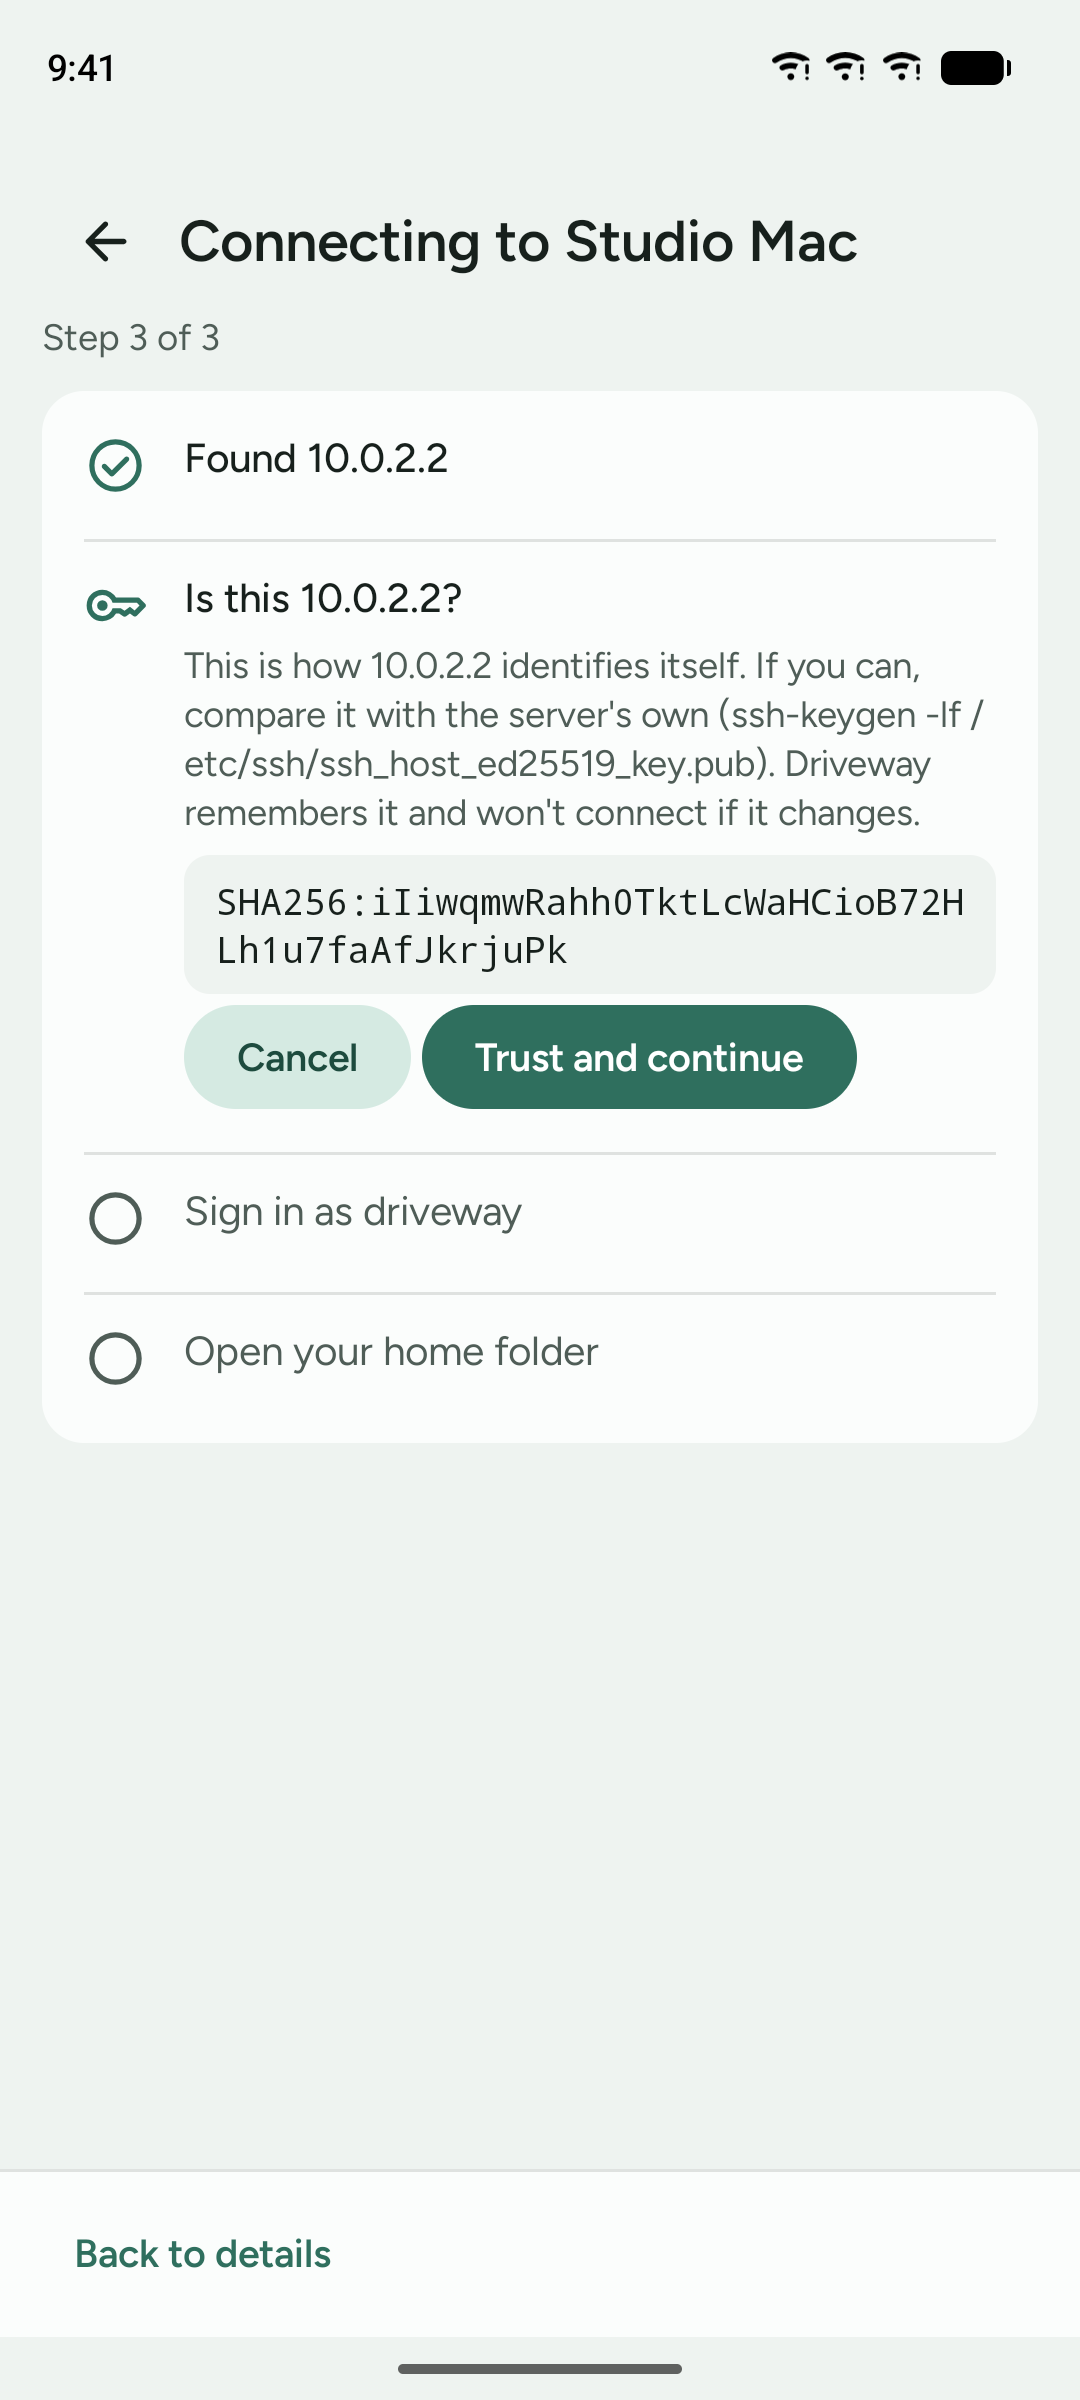
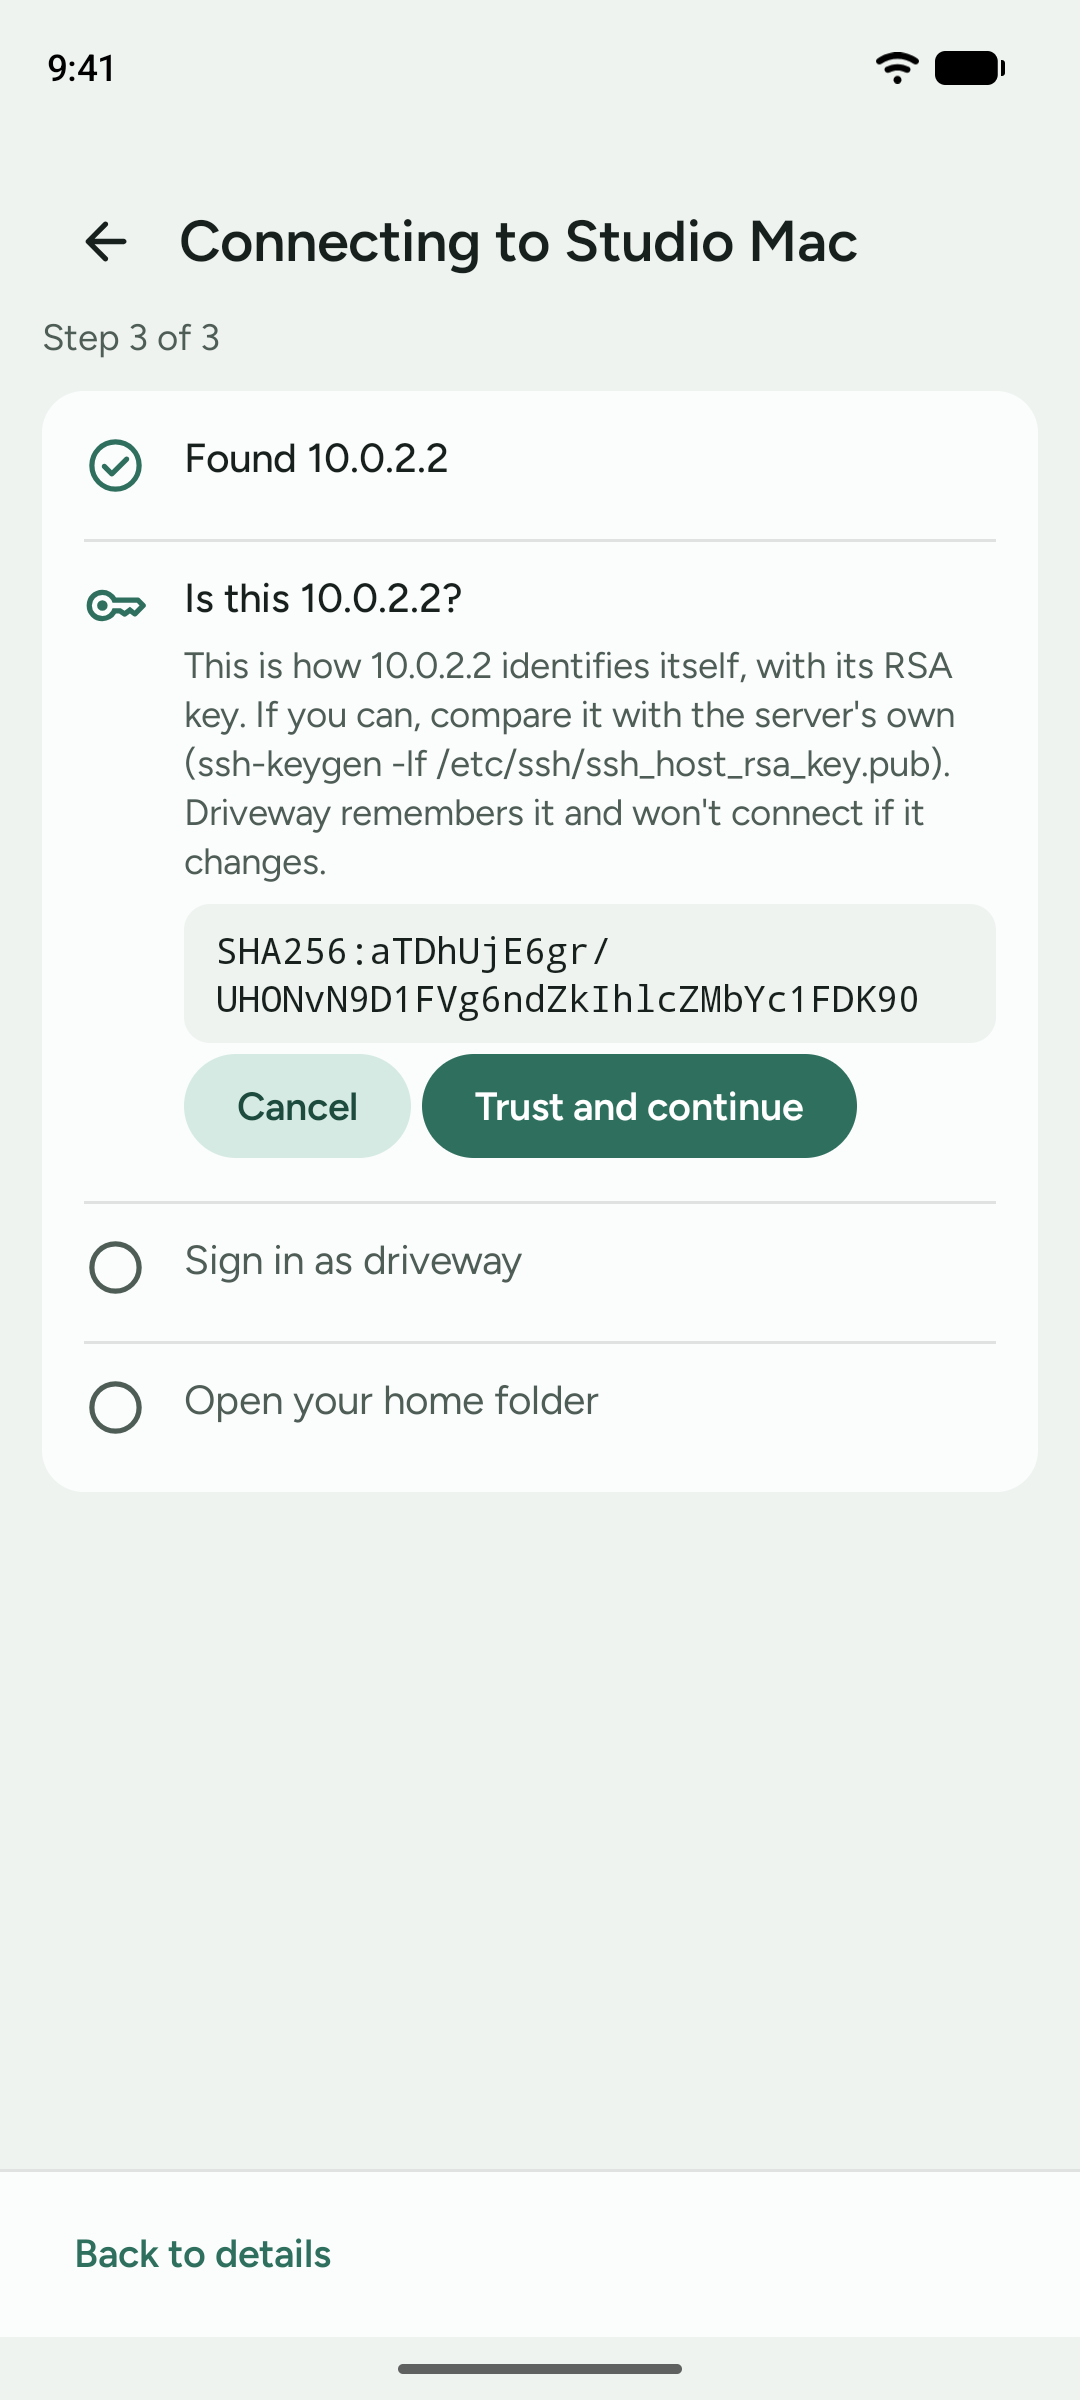
README: recapture the identity step, which now names the key's file
The phone shot of the first-connection step showed the old sentence,
which always named the Ed25519 key file. It is captured again on an
emulator against the SFTP test server, which presents its RSA key, so
the step names RSA and ssh_host_rsa_key.pub; the alt text says so.

Changed region(s): [[0.0611, 0.25, 0.8861, 0.5938], [0.825, 0.0, 0.8556, 0.0312], [0.7639, 0.0, 0.7944, 0.0312]]

diff --git a/README.md b/README.md
@@ -58,7 +58,7 @@ doesn't make a server at home reachable from outside on its own.
 <table>
   <tr>
     <td width="33%"><img src="docs/images/phone-servers.png" alt="Driveway on a phone: one server found on the network (DiskStation), then Family NAS, Media, Dropbox and Studio Mac, each with its kind and address, and Add a server"></td>
-    <td width="33%"><img src="docs/images/phone-identity.png" alt="Connecting to Studio Mac, step 3 of 3: Found, then Is this the server? with its SHA256 fingerprint, Cancel and Trust and continue; Sign in and Open your home folder still to come"></td>
+    <td width="33%"><img src="docs/images/phone-identity.png" alt="Connecting to Studio Mac, step 3 of 3: Found, then Is this the server? with the type of key it presented, the file to compare it with, and its SHA256 fingerprint, Cancel and Trust and continue; Sign in and Open your home folder still to come"></td>
     <td width="33%"><img src="docs/images/phone-done.png" alt="Studio Mac is in Files: Driveway's house with a car in the driveway, Open Files and Done, and the checklist with every step checked"></td>
   </tr>
   <tr>
